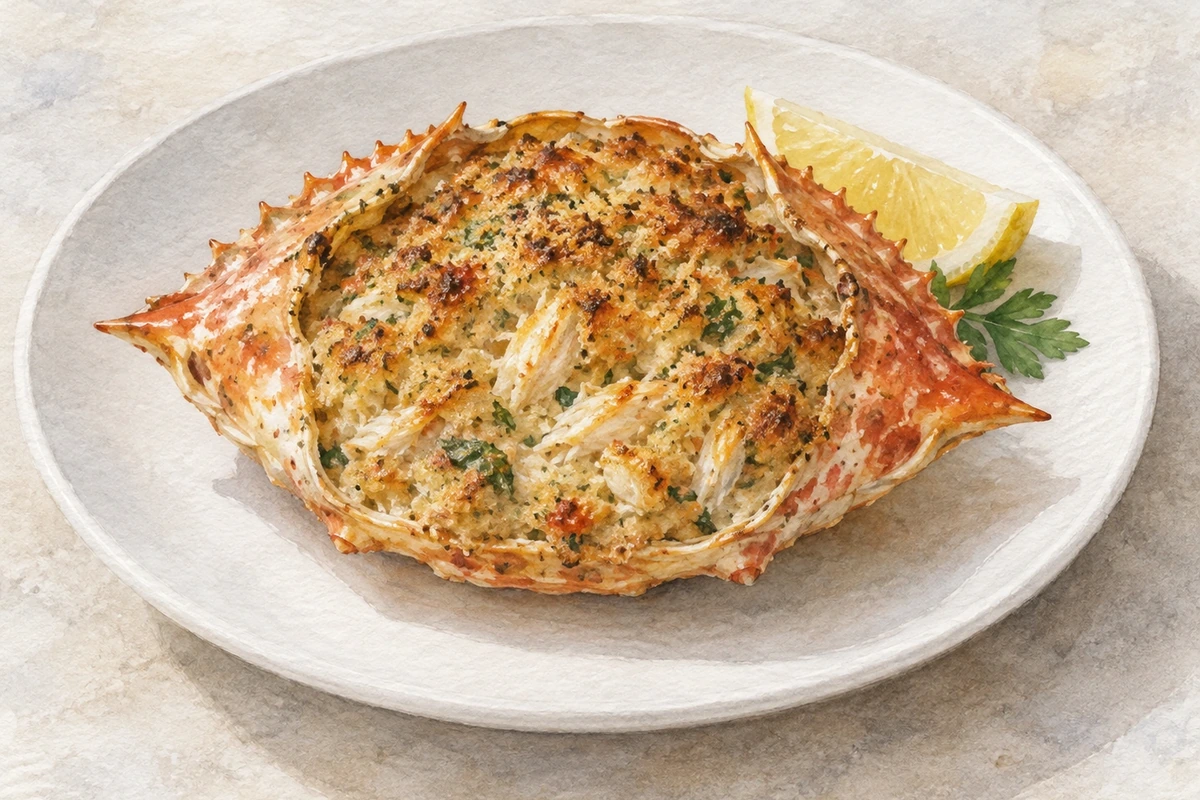
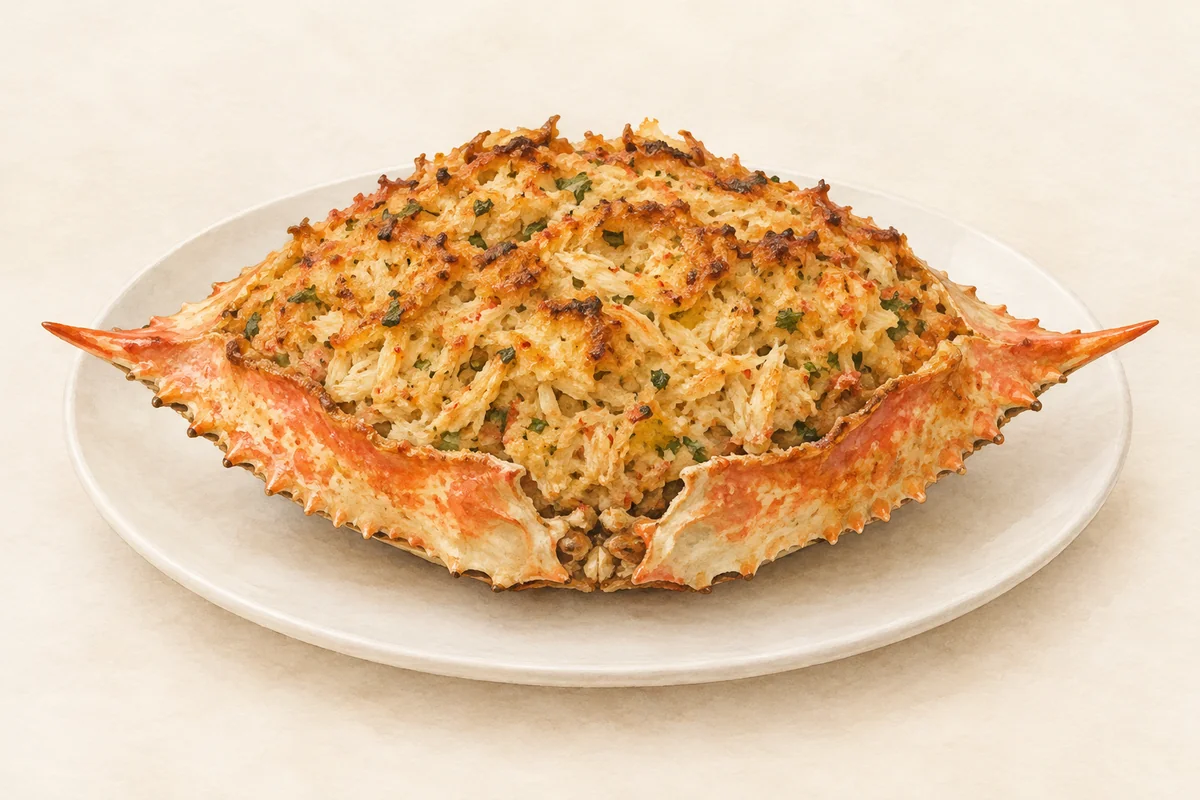
Use approved Dominica watercolor Taste images in unpublished review
* Use user-approved Dominica watercolor Taste assets

* Remove obsolete Dominica-specific inset for approved full-frame watercolor assets

diff --git a/assets/css/taste-image-framing.css b/assets/css/taste-image-framing.css
@@ -23,28 +23,6 @@
   object-position: center;
 }
 
-/* Dominica's approved artwork needs visibly smaller dishes and the original
-   source aspect. Keep the complete image inside the unchanged 3:2 Taste frame;
-   never crop or scale the source beyond its natural proportions. */
-.taste-card__image:has(> .taste-card__img[src*="/dominica/approved/food-"]) {
-  display: flex;
-  align-items: center;
-  justify-content: center;
-  overflow: hidden;
-  background: transparent;
-}
-.taste-card__img[src*="/dominica/approved/food-"] {
-  display: block;
-  flex: 0 1 auto;
-  width: 76%;
-  height: auto;
-  max-width: 100%;
-  max-height: 100%;
-  object-fit: contain;
-  object-position: center;
-  transform: none;
-}
-
 /* Panama's approved 3:2 Taste illustrations include their own safe margins.
    Do not inset them again or expose a different card backing. */
 .taste-card__img[src*="/panama/approved/food0"] {
